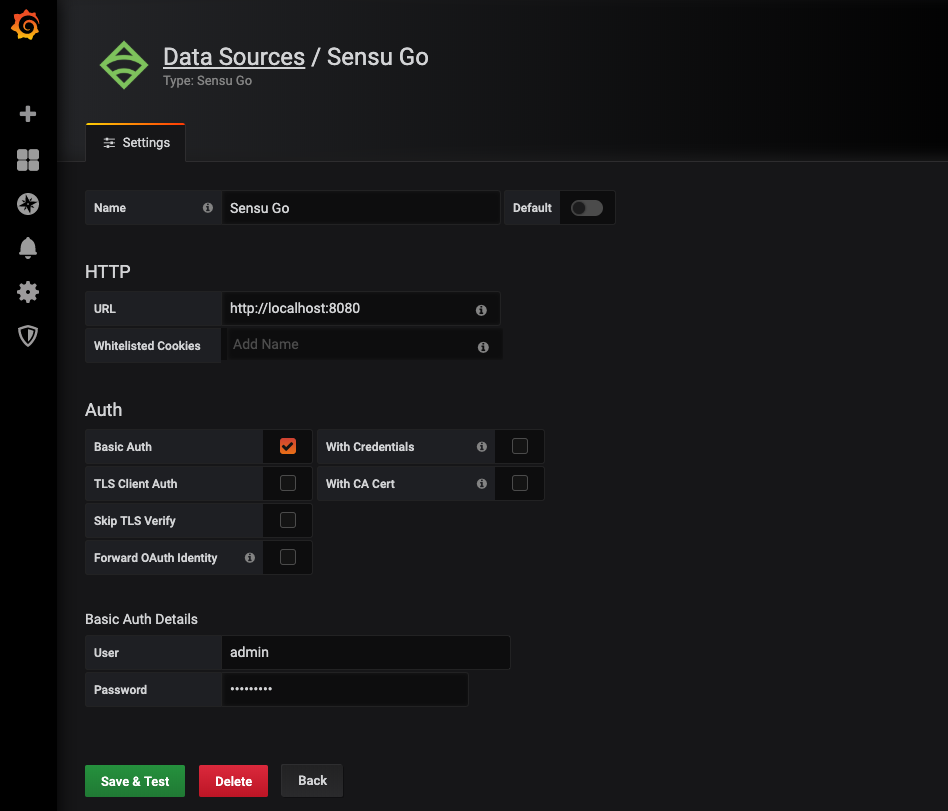
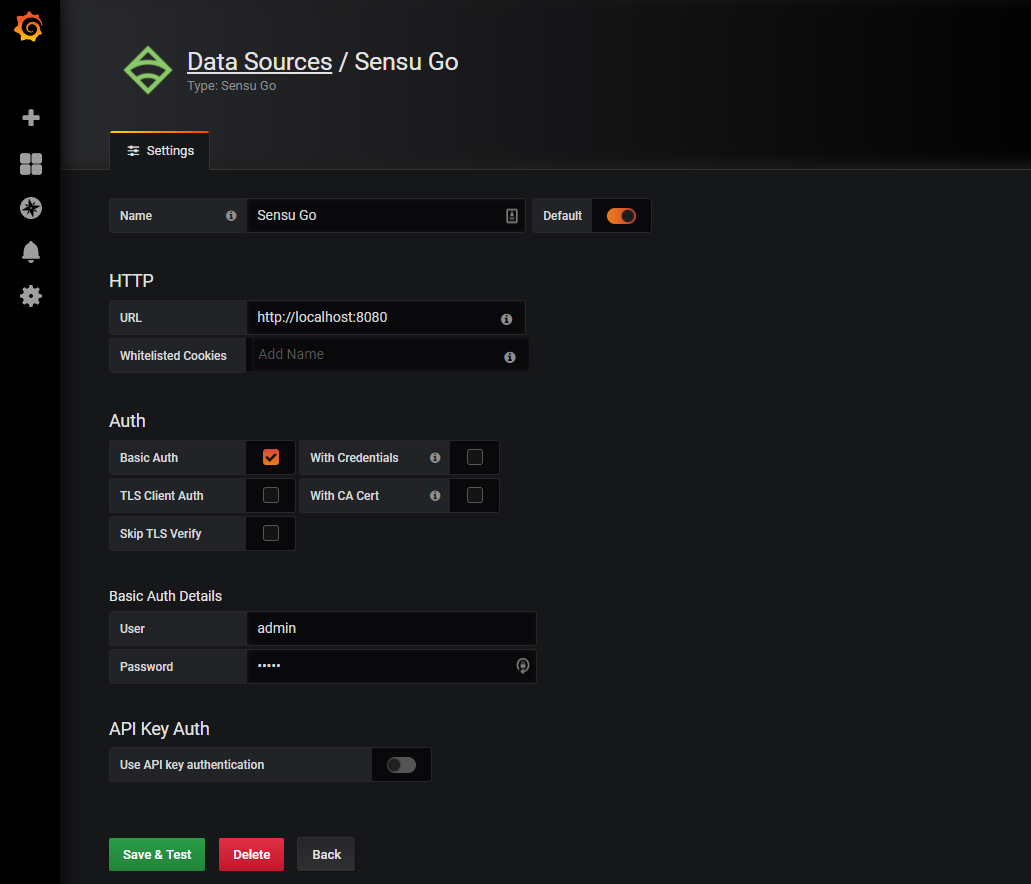
Add support for API Keys (#31)

diff --git a/src/sensu/sensu.ts b/src/sensu/sensu.ts
@@ -19,6 +19,8 @@ export default class Sensu {
    */
   static readonly apiBaseUrl = '/api/core/v2';
 
+  static readonly apiKeyUrlPrefix = '/api_key_auth';
+
   /**
    * Executes a query against the given datasource. An access token will be gathered if needed.
    *
@@ -26,7 +28,9 @@ export default class Sensu {
    * @param options the options specifying the query's request
    */
   static query(datasource: any, options: QueryOptions) {
-    const {method, url, namespace, limit, forceAccessTokenRefresh} = options;
+    const { method, url, namespace, limit, forceAccessTokenRefresh } = options;
+    const { useApiKey } = datasource.instanceSettings.jsonData;
+
     if (forceAccessTokenRefresh) {
       delete datasource.instanceSettings.tokens;
     }
@@ -42,22 +46,35 @@ export default class Sensu {
       fullUrl += '?limit=' + limit;
     }
 
-    return this._authenticate(datasource)
-      .then(() => this._request(datasource, method, fullUrl))
-      .catch(() => this.query(datasource, {...options, forceAccessTokenRefresh: true}));
+    return Sensu._authenticate(datasource)
+      .then(() => Sensu._request(datasource, method, fullUrl))
+      .catch((error) => {
+        if (!useApiKey && !forceAccessTokenRefresh) {
+          // in case api tokens (not api key) are used, try to refresh the token
+          Sensu.query(datasource, { ...options, forceAccessTokenRefresh: true });
+        } else {
+          throw error;
+        }
+      });
   }
 
   /**
    * Checks whether an access token exist. If none exists or it is expired a new one will be fetched.
+   * In case an api key auth is used, this method will never fetch a token.
    *
    * @param datasource the datasource to use
    */
   static _authenticate(datasource: any) {
-    const instanceSettings = datasource.instanceSettings;
-    let acquireToken =
-      !instanceSettings.tokens || this._isTokenExpired(instanceSettings.tokens);
+    const { tokens, jsonData: { useApiKey } } = datasource.instanceSettings;
+
+    // never aquire token in case of api key auth
+    if (useApiKey) {
+      return Promise.resolve(true);
+    }
+
+    let acquireToken = !tokens || Sensu._isTokenExpired(tokens);
     if (acquireToken) {
-      return this._acquireAccessToken(datasource);
+      return Sensu._acquireAccessToken(datasource);
     } else {
       return Promise.resolve(true);
     }
@@ -73,7 +90,7 @@ export default class Sensu {
     let expiresAt: number = token.expires_at;
 
     if (token.expires_offset) {
-      expiresAt = expiresAt - token.expires_offset - this.tokenExpireOffset_s;
+      expiresAt = expiresAt - token.expires_offset - Sensu.tokenExpireOffset_s;
     }
 
     return expiresAt < timestampNow;
@@ -85,11 +102,11 @@ export default class Sensu {
    * @param datasource the datasource to use
    */
   static _acquireAccessToken(datasource: any) {
-    return this._request(datasource, 'GET', '/auth').then(result => {
+    return Sensu._request(datasource, 'GET', '/auth').then(result => {
       let tokens: AccessToken = result.data;
 
       let timestampNow: number = Math.floor(Date.now() / 1000);
-      let expiresOffset: number = tokens.expires_at - timestampNow - this.tokenTimeout_s;
+      let expiresOffset: number = tokens.expires_at - timestampNow - Sensu.tokenTimeout_s;
 
       tokens.expires_offset = expiresOffset;
 
@@ -105,23 +122,32 @@ export default class Sensu {
    * @param url the url to send the request to
    */
   static _request(datasource: any, method: string, url: string) {
-    let req: any = {
-      method: method,
-      url: datasource.url + url,
+    const { useApiKey } = datasource.instanceSettings.jsonData;
+
+    const req: any = {
+      method: method
     };
 
     req.headers = {
       'Content-Type': 'application/json',
     };
 
-    if (_.has(datasource.instanceSettings, 'tokens')) {
-      req.headers.Authorization =
-        'Bearer ' + datasource.instanceSettings.tokens.access_token;
+    if (useApiKey) {
+      // authentication via api key using authentication route
+      req.url = datasource.url + Sensu.apiKeyUrlPrefix + url;
+    } else {
+      // authetnication via bearer token
+      req.url = datasource.url + url;
+
+      if (_.has(datasource.instanceSettings, 'tokens')) {
+        req.headers.Authorization =
+          'Bearer ' + datasource.instanceSettings.tokens.access_token;
+      }
     }
 
     return datasource.backendSrv
       .datasourceRequest(req)
-      .then(this._handleRequestResult, this._handleRequestError);
+      .then(Sensu._handleRequestResult, Sensu._handleRequestError);
   }
 
   /**

diff --git a/src/partials/config.html b/src/partials/config.html
@@ -1,2 +1,30 @@
 <datasource-http-settings current="ctrl.current" no-direct-access="true" suggest-url="http://localhost:8080">
 </datasource-http-settings>
+
+<h3 class="page-heading">API Key Auth</h3>
+
+<div class="gf-form-group">
+    <gf-form-switch class="gf-form" label="Use API key authentication" label-class="width-19" switch-class="max-width-6"
+        checked="ctrl.current.jsonData.useApiKey" on-change="ctrl.onUseApiKeyToggle()">
+    </gf-form-switch>
+
+    <div class="gf-form-inline" ng-if="ctrl.current.jsonData.useApiKey && !ctrl.current.secureJsonFields.apiKey">
+        <div class="gf-form">
+            <span class="gf-form-label width-9">API Key</span>
+            <input class="gf-form-input width-30" type="text" ng-model="ctrl.current.secureJsonData.apiKey"
+                placeholder="xxxxxxxx-xxxx-xxxx-xxxx-xxxxxxxxxxxx" />
+            <info-popover mode="right-absolute">
+                <p>
+                    Please see the Sensu Go
+                    <a target="_blank" href="https://docs.sensu.io/sensu-go/latest/reference/apikeys/">documentation</a>
+                    for information on how to create an API key.
+                </p>
+            </info-popover>
+        </div>
+    </div>
+    <div class="gf-form" ng-if="ctrl.current.jsonData.useApiKey && ctrl.current.secureJsonFields.apiKey">
+        <span class="gf-form-label width-9">API Key</span>
+        <input type="text" class="gf-form-input max-width-12" disabled="disabled" value="configured" />
+        <a class="btn btn-secondary gf-form-btn" href="#" ng-click="ctrl.resetApiKey()">reset</a>
+    </div>
+</div>

diff --git a/src/datasource.ts b/src/datasource.ts
@@ -12,12 +12,14 @@ import ColumnMapping from './model/ColumnMapping';
 import DataPoint from './model/DataPoint';
 import Filter from './model/Filter';
 import QueryComponents from './model/QueryComponents';
+import InstanceSettings from './model/InstanceSettings';
 
 export default class SensuDatasource {
+  
   url: string;
 
   /** @ngInject */
-  constructor(public instanceSettings, public backendSrv, private templateSrv) {
+  constructor(public instanceSettings: InstanceSettings, public backendSrv, private templateSrv) {
     this.url = instanceSettings.url.trim();
   }
 
@@ -487,16 +489,24 @@ export default class SensuDatasource {
    * Used by the config UI to test a datasource.
    */
   testDatasource() {
+    const { useApiKey } = this.instanceSettings.jsonData;
+
+    // the /auth/test endpoint is only available for testing basic auth credentials
+    const testUrl = useApiKey ? '/api/core/v2/namespaces' : '/auth/test';
+
     return sensu
-      ._request(this, 'GET', '/auth/test')
+      ._request(this, 'GET', testUrl)
       .then(() => {
         return {
           status: 'success',
           message: 'Successfully connected against the Sensu Go API',
         };
       })
-      .catch(err => {
-        return { status: 'error', message: err.message };
+      .catch(error => {
+        if (useApiKey && error.data === 'access_error') {
+          return { status: 'error', message: 'API Key Invalid: Could not logged in using API key' };
+        }
+        return { status: 'error', message: error.message };
       });
   }
 }

diff --git a/src/config_ctrl.ts b/src/config_ctrl.ts
@@ -1,6 +1,42 @@
+import InstanceSettings from './model/InstanceSettings';
+
 /**
  * Controller responsible for the configuration ui.
  */
 export class SensuConfigCtrl {
   static templateUrl = 'partials/config.html';
+
+  // the current datasource settings
+  current: InstanceSettings;
+
+  /** @ngInject **/
+  constructor($scope) {
+    const that = this;
+    $scope.$watch(() => that.current.url, (value) => that.current.jsonData.currentUrl = value);
+    $scope.$watch(() => that.current.basicAuth, (value) => {
+      if (value) {
+        that.current.jsonData.useApiKey = false;
+      }
+    });
+  }
+
+  /**
+   * When the "Use API Key" option is toggled.
+   */
+  onUseApiKeyToggle = () => {
+    const current = this.current;
+    if (current.jsonData.useApiKey) {
+      current.basicAuth = false;
+      this.resetApiKey();
+    }
+  }
+
+  /**
+   * Resets the currely set API key.
+   */
+  resetApiKey = () => {
+    this.current.secureJsonFields.apiKey = false;
+    this.current.secureJsonData = this.current.secureJsonData || {};
+    this.current.secureJsonData.apiKey = '';
+  }
 }

diff --git a/src/model/InstanceSettings.ts b/src/model/InstanceSettings.ts
@@ -1,0 +1,34 @@
+export default interface ConfigSettings {
+  // the datasource url
+  url: string;
+
+  // whether basic auth is used
+  basicAuth: boolean;
+
+  // additional data
+  jsonData: JsonData;
+
+  // additional secured data
+  secureJsonData: SecureJsonData;
+
+  // map defining which secured data element is set
+  secureJsonFields: SecureJsonFields;
+};
+
+export interface JsonData {
+  // copy of the current datasource url - used for dynamic routing
+  currentUrl: string;
+
+  // whether an API key should be used
+  useApiKey: boolean;
+};
+
+export interface SecureJsonData {
+  // the specified API key
+  apiKey?: string;
+};
+
+export interface SecureJsonFields {
+  // whether an API key has been stored by Grafana
+  apiKey?: boolean;
+};

diff --git a/README.md b/README.md
@@ -32,11 +32,11 @@ Grab the URL for [the latest release zip file][2].
 
 ```
 $ sudo grafana-cli --pluginUrl https://github.com/sensu/grafana-sensu-go-datasource/releases/download/1.0.1/sensu-sensugo-datasource-1.0.1.zip plugins install sensu-sensugo-datasource
-installing sensu-sensugo-datasource @ 
+installing sensu-sensugo-datasource @
 from url: https://github.com/sensu/grafana-sensu-go-datasource/releases/download/1.0.1/sensu-sensugo-datasource-1.0.1.zip
 into: /var/lib/grafana/plugins
 
-✔ Installed sensu-sensugo-datasource successfully 
+✔ Installed sensu-sensugo-datasource successfully
 
 Restart grafana after installing plugins . <service grafana-server restart>
 ```
@@ -50,18 +50,23 @@ Select Add data source, and choose Sensu Go.
 
 To configure the Sensu Go Data Source:
 
-- **Add your Sensu backend API URL** (default: `http://localhost:8080`). When connecting to a Sensu cluster, connect to any single backend in the cluster. For more information about configuring the Sensu API URL, see the [Sensu docs][4].
-- **Check the option for Basic Auth**.
-- **Add a Sensu username and password** with get and list permissions for entities, events, and namespaces (default admin user: username `admin`, password `P@ssw0rd!`). For more information about creating a Sensu cluster role, see the [Sensu docs][5].
+1. **Add your Sensu backend API URL** (default: `http://localhost:8080`). When connecting to a Sensu cluster, connect to any single backend in the cluster. For more information about configuring the Sensu API URL, see the [Sensu docs][4].
+2. **Configure the authentification mechanism**. Since version 1.1.0 of the data source it is possible to choose between **API key** and **Basic Auth** authentication.
 
-<img alt="Grafana user interface showing the configuration settings for the Sensu Go Data Source"
+   * **Basic Auth**
+     * **Check the option for Basic Auth**.
+     * **Add a Sensu username and password** with get and list permissions for entities, events, and namespaces (default admin user: username `admin`, password `P@ssw0rd!`). For more information about creating a Sensu cluster role, see the [Sensu docs][5].
+     <img alt="Grafana user interface showing the configuration settings for the Sensu Go Data Source"
   src="/images/configure-data-source.png"
   width="750"
 />
+   * **API Key Auth**
+     * **Enable the option for the usage of an API key**.
+     * **Enter the API key which you want to use**. See the Sensu Go documentation for information on [how to create an API key][api_key_doc].
+       ![API key configuration in the Sensu So Data Source](/images/configure-api-key.png)
 
-Select Save & Test. You should see a banner confirming that Grafana is connected to Sensu Go.
-
-<img alt="Confirmation banner with the message: Successfully connected against the Sensu Go API"
+3. Select Save & Test. You should see a banner confirming that Grafana is connected to Sensu Go.
+   <img alt="Confirmation banner with the message: Successfully connected against the Sensu Go API"
   src="/images/configure-success.png"
   width="750"
 />
@@ -154,3 +159,4 @@ Running `release-it` creates a `releases` directory containing the built zip arc
 [9]: https://grafana.com/docs/guides/basic_concepts/
 [10]: https://www.npmjs.com/package/release-it
 [npm]: https://www.npmjs.com/get-npm
+[api_key_doc]: https://docs.sensu.io/sensu-go/latest/reference/apikeys/
